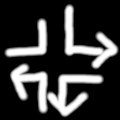
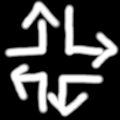
회전 타일 추가

Changed region(s): [[0.175, 0.0, 0.525, 0.25]]

diff --git a/tiles.py b/tiles.py
@@ -299,9 +299,10 @@ class Portal(Tile):
         velocity = other.velocity
         opposite_position = self.opposite.get_position()
         teleported_location = game.correct_position((opposite_position[0] + velocity[0], opposite_position[1] + velocity[1]))
-        if game.world_tiles[teleported_location[0]][teleported_location[1]] is not None:
+        existing = game.world_tiles[teleported_location[0]][teleported_location[1]]
+        if existing is not None and existing != self:
             self.velocity = velocity
-            game.world_tiles[teleported_location[0]][teleported_location[1]].when_pushed(self)
+            existing.when_pushed(self)
             self.velocity = (0, 0)
             return
         other_position = other.get_position()
@@ -346,10 +347,53 @@ class Duplicate(Tile):
         return f"{position[0]} {position[1]} duplicate {fixed}"
 
 
-class RotateRight(Tile):
+class Rotate(Tile):
+    def __init__(self, texture: Texture):
+        super().__init__(texture)
+        self.direction = enums.RIGHT
+
     def when_pushed(self, other):
-        if self.direction % 2 == 0:
-            pass
+        is_right = self.direction == enums.RIGHT
+        velocity = other.velocity
+        if velocity == (1, 0):
+            if is_right:
+                velocity = (0, 1)
+            else:
+                velocity = (0, -1)
+        elif velocity == (0, 1):
+            if is_right:
+                velocity = (-1, 0)
+            else:
+                velocity = (1, 0)
+        elif velocity == (-1, 0):
+            if is_right:
+                velocity = (0, -1)
+            else:
+                velocity = (0, 1)
+        elif velocity == (0, -1):
+            if is_right:
+                velocity = (1, 0)
+            else:
+                velocity = (-1, 0)
+
+        position = self.get_position()
+        other_position = other.get_position()
+        rotate_next_position = game.correct_position((position[0] + velocity[0], position[1] + velocity[1]))
+        existing = game.world_tiles[rotate_next_position[0]][rotate_next_position[1]]
+        if existing is not None:
+            if not (isinstance(existing, Rotate) or isinstance(existing, Portal)):
+                self.velocity = velocity
+                existing.when_pushed(self)
+                self.velocity = (0, 0)
+                return
+        else:
+            if is_right:
+                other.direction -= 1
+            else:
+                other.direction += 1
+            other.direction %= 4
+            game.world_tiles[other_position[0]][other_position[1]] = None
+            game.world_tiles[rotate_next_position[0]][rotate_next_position[1]] = other
 
     def serialize(self):
         position = self.get_position()
@@ -357,4 +401,4 @@ class RotateRight(Tile):
             fixed = "FIXED"
         else:
             fixed = "MOVABLE"
-        return f"{position[0]} {position[1]} rotate_right {self.direction} {fixed}"
+        return f"{position[0]} {position[1]} rotate_right {fixed}"

diff --git a/inputhandler.py b/inputhandler.py
@@ -4,9 +4,11 @@ import glfw
 
 import enums
 import game
+import tiles
 from global_variables import global_infos
 import data
 from tiles import Portal
+from texture import Texture
 
 """
 ZPG의 키보드 핸들러
@@ -20,10 +22,24 @@ def on_key(window, key: int, scancode: int, action: int, mods: int):
     if not is_press:
         return
 
-    allowed_speeds = [0.5, 1.0, 1.5, 2.0, 3.0, 4.0, 6.0, 10.0, 12.0, 15.0, 20.0, 30.0]
+    allowed_speeds = [0.5, 1.0, 1.5, 2.0, 3.0, 4.0, 6.0, 10.0, 12.0, 15.0, 20.0, 30.0, 60.0]
     is_ctrl_pressed = glfw.get_key(window, glfw.KEY_LEFT_CONTROL)
     is_alt_pressed = glfw.get_key(window, glfw.KEY_LEFT_ALT)
     if key == glfw.KEY_ESCAPE:
+        if global_infos.show_help:
+            global_infos.show_help = False
+            return
+        if global_infos.show_placer:
+            global_infos.show_placer = False
+            return
+        if global_infos.show_debug_ui:
+            global_infos.show_debug_ui = False
+            return
+        if global_infos.show_stage_picker:
+            global_infos.show_stage_picker = False
+            return
+        if global_infos.stage_tracker is not None and global_infos.stage_tracker.cleared:
+            return
         glfw.set_window_should_close(window, True)
 
     if key == glfw.KEY_L:
@@ -80,8 +96,6 @@ def on_key(window, key: int, scancode: int, action: int, mods: int):
 
         if key == glfw.KEY_P:
             game.play_wav("menu.wav")
-            global_infos.show_help = False
-            global_infos.show_debug_ui = False
             if not global_infos.ticking:
                 global_infos.show_placer = not global_infos.show_placer
 
@@ -156,19 +170,23 @@ def on_key(window, key: int, scancode: int, action: int, mods: int):
                 data.deserialize_to_world(game.world_tiles, "0.map")
 
         if key == glfw.KEY_UP:
-            if game.holding is not None:
+            if game.holding is not None and not isinstance(game.holding, tiles.Rotate):
                 game.holding.direction = enums.UP
 
         if key == glfw.KEY_RIGHT:
             if game.holding is not None:
+                if isinstance(game.holding, tiles.Rotate):
+                    game.holding.texture = Texture.ROTATE_RIGHT
                 game.holding.direction = enums.RIGHT
 
         if key == glfw.KEY_DOWN:
-            if game.holding is not None:
+            if game.holding is not None and not isinstance(game.holding, tiles.Rotate):
                 game.holding.direction = enums.DOWN
 
         if key == glfw.KEY_LEFT:
             if game.holding is not None:
+                if isinstance(game.holding, tiles.Rotate):
+                    game.holding.texture = Texture.ROTATE_LEFT
                 game.holding.direction = enums.LEFT
 
 

diff --git a/main.py b/main.py
@@ -40,6 +40,7 @@ def init_window():
         glfw.terminate()
         return
 
+    global_infos.window = window
     glfw.make_context_current(window)
     glfw.set_key_callback(window, inputhandler.on_key)
     glfw.set_mouse_button_callback(window, inputhandler.on_mouse)
@@ -223,6 +224,19 @@ def show_placer():
     imgui.same_line()
     placer_entry(Texture.PORTAL_BLUE, Portal)
     placer_entry(Texture.DUPLICATE, Duplicate)
+    imgui.same_line()
+    if imgui.image_button(Texture.ROTATE_RIGHT.id, 120, 120, (0, 1), (1, 0)):
+        rotate = Rotate(Texture.ROTATE_RIGHT)
+
+        direction = enums.RIGHT
+        if glfw.PRESS == glfw.get_key(window, glfw.KEY_RIGHT):
+            direction = enums.RIGHT
+        elif glfw.PRESS == glfw.get_key(window, glfw.KEY_LEFT):
+            direction = enums.LEFT
+
+        rotate.direction = direction
+        game.holding = rotate
+        rotate.is_fixed = global_infos.is_holding_fixed
     imgui.end()
 
 def show_stage_picker():

diff --git a/stage_tracker.py b/stage_tracker.py
@@ -1,6 +1,7 @@
 from tiles import Star
 from global_variables import global_infos
 from copy import deepcopy
+import glfw
 
 
 class StageBase:
@@ -69,6 +70,9 @@ class StageBase:
         if self.next_stage is not None:
             if imgui.button("다음 스테이지 불러오기"):
                 global_infos.stage_tracker = self.next_stage()
+            imgui.same_line()
+        if imgui.button("게임 종료"):
+            glfw.set_window_should_close(global_infos.window, True)
         imgui.end()
 
 

diff --git a/texture.py b/texture.py
@@ -22,6 +22,7 @@ class Texture:
     PORTAL_ORANGE = None
     PORTAL_BLUE = None
     DUPLICATE = None
+    ROTATE_LEFT = None
     ROTATE_RIGHT = None
 
     # 현재 게임에서 사용하는 텍스쳐들이 들어있는 리스트, create_texture 정적 함수가 호출되면 초기화된다

diff --git a/global_variables.py b/global_variables.py
@@ -12,6 +12,7 @@ class Global:
         self.stage_tracker = None
         self.show_stage_picker = False
         self.imgui_io = None
+        self.window = -1
 
 
 global_infos = Global()
